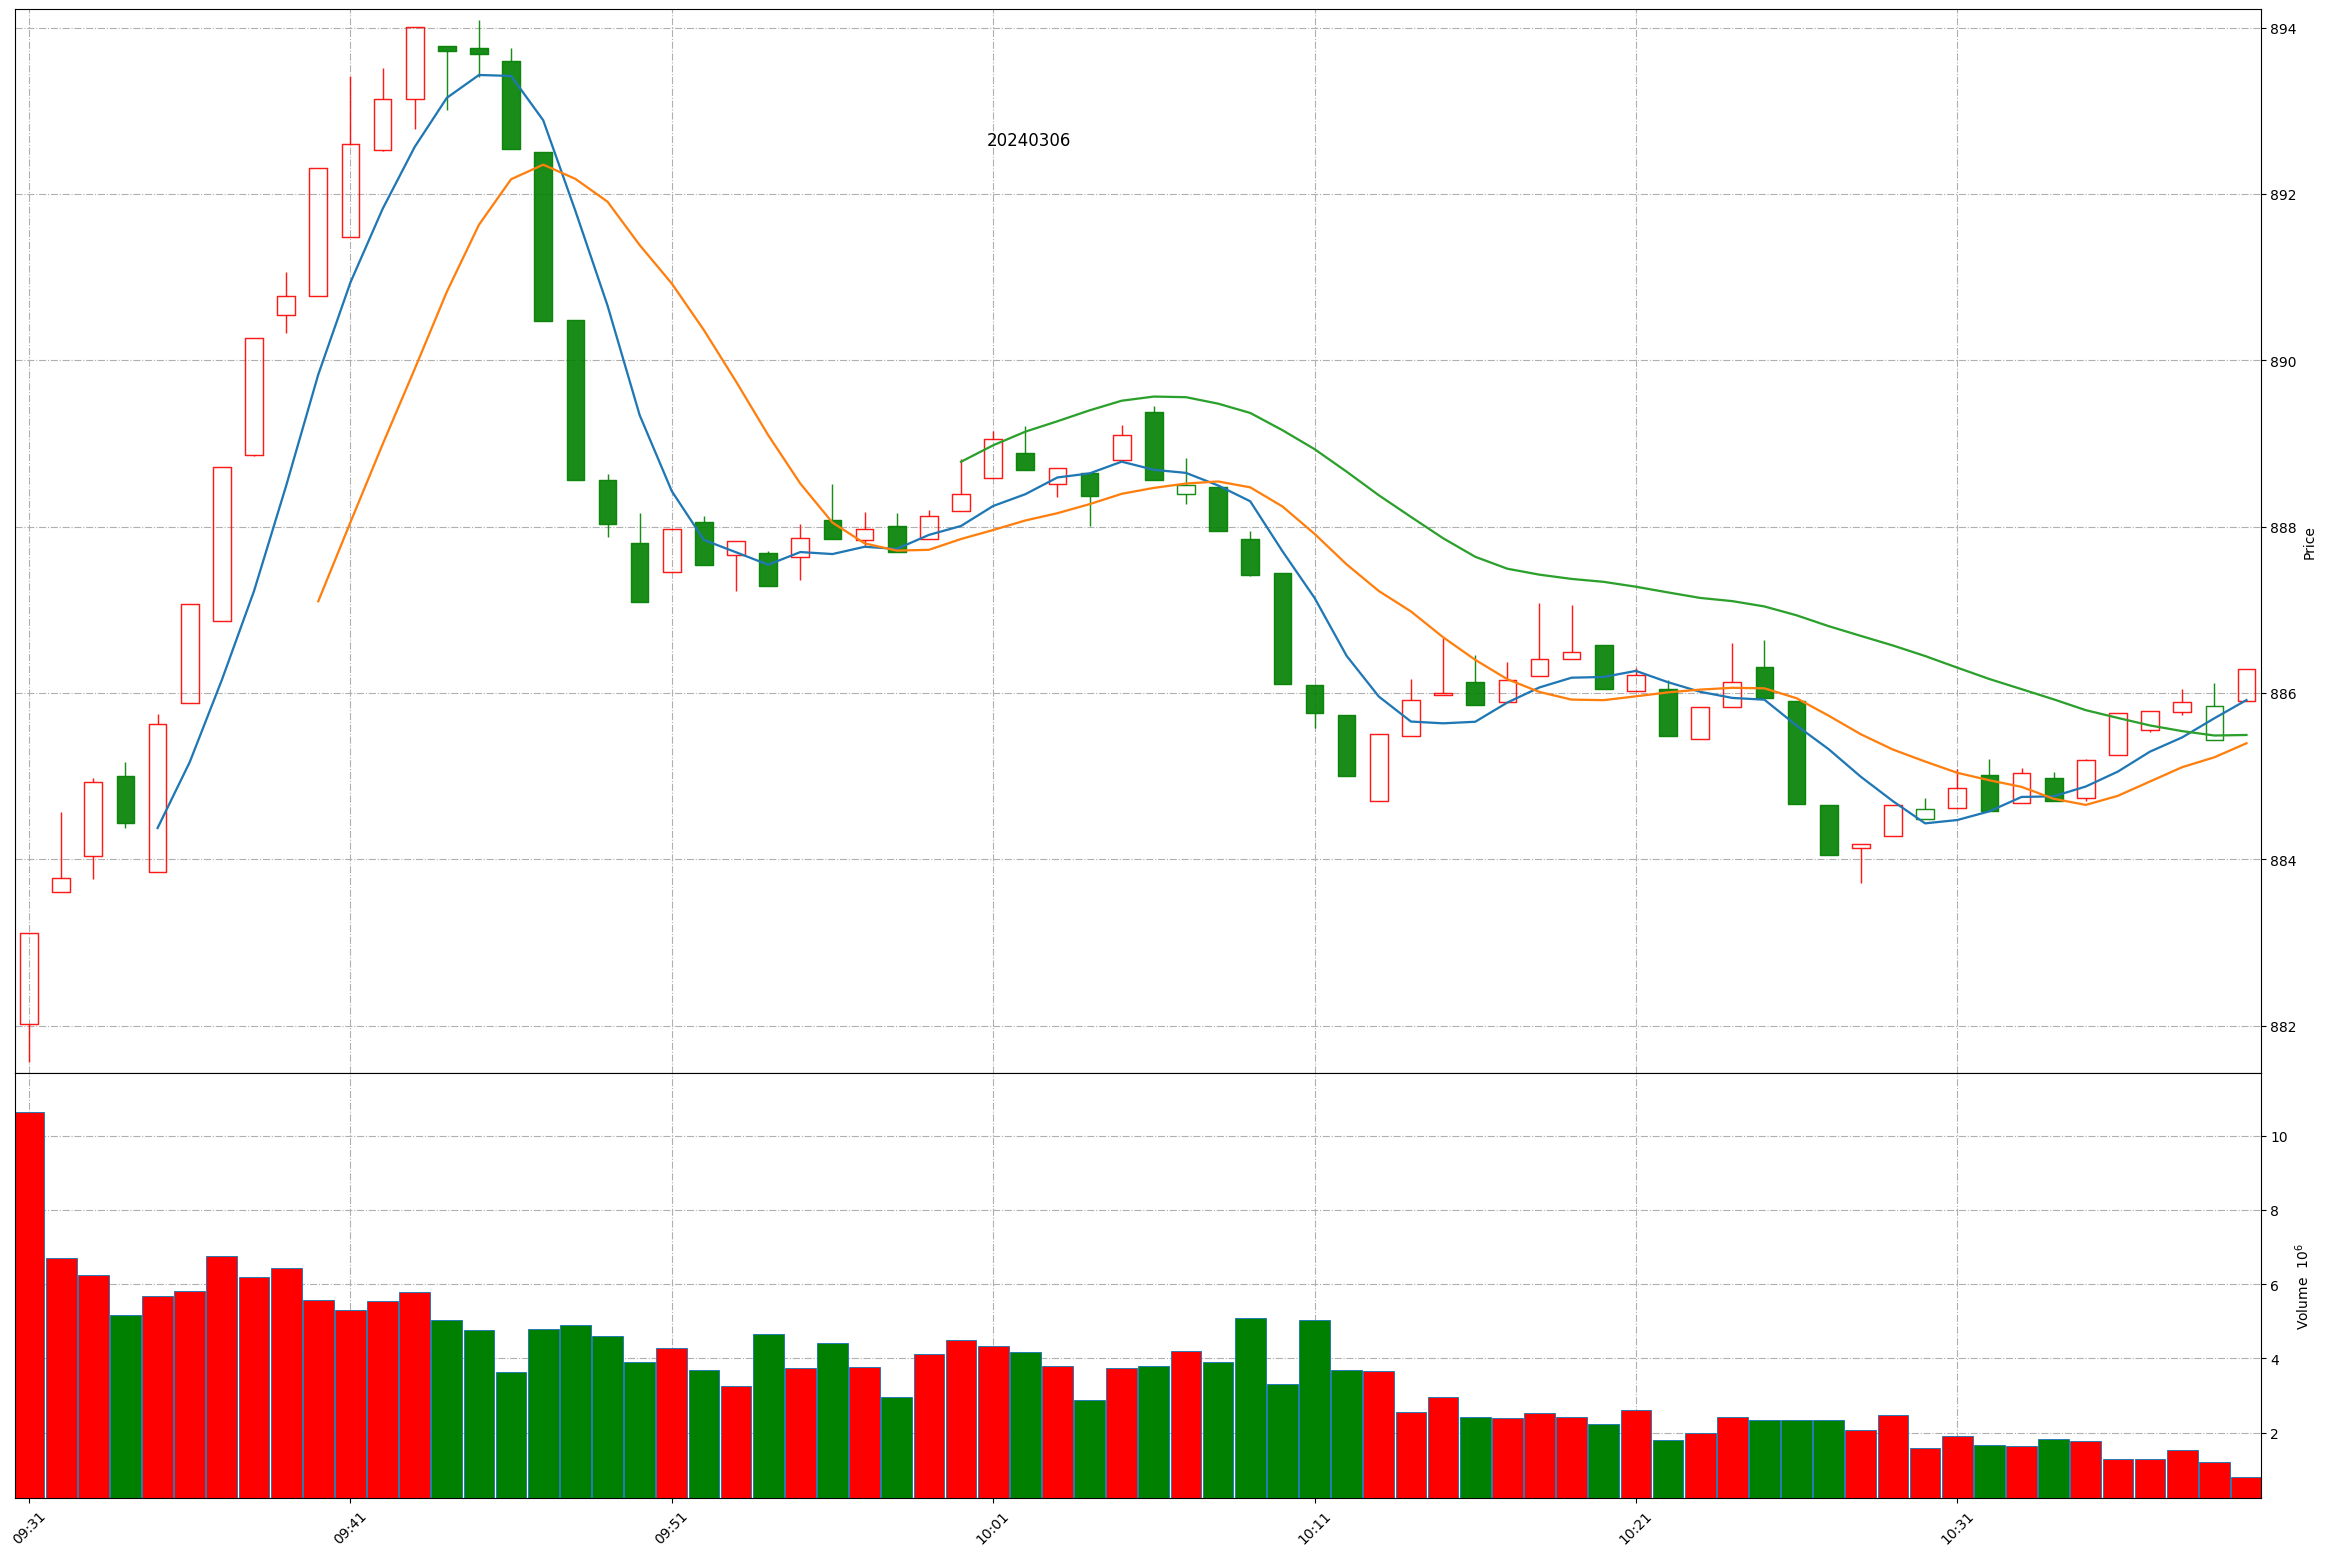
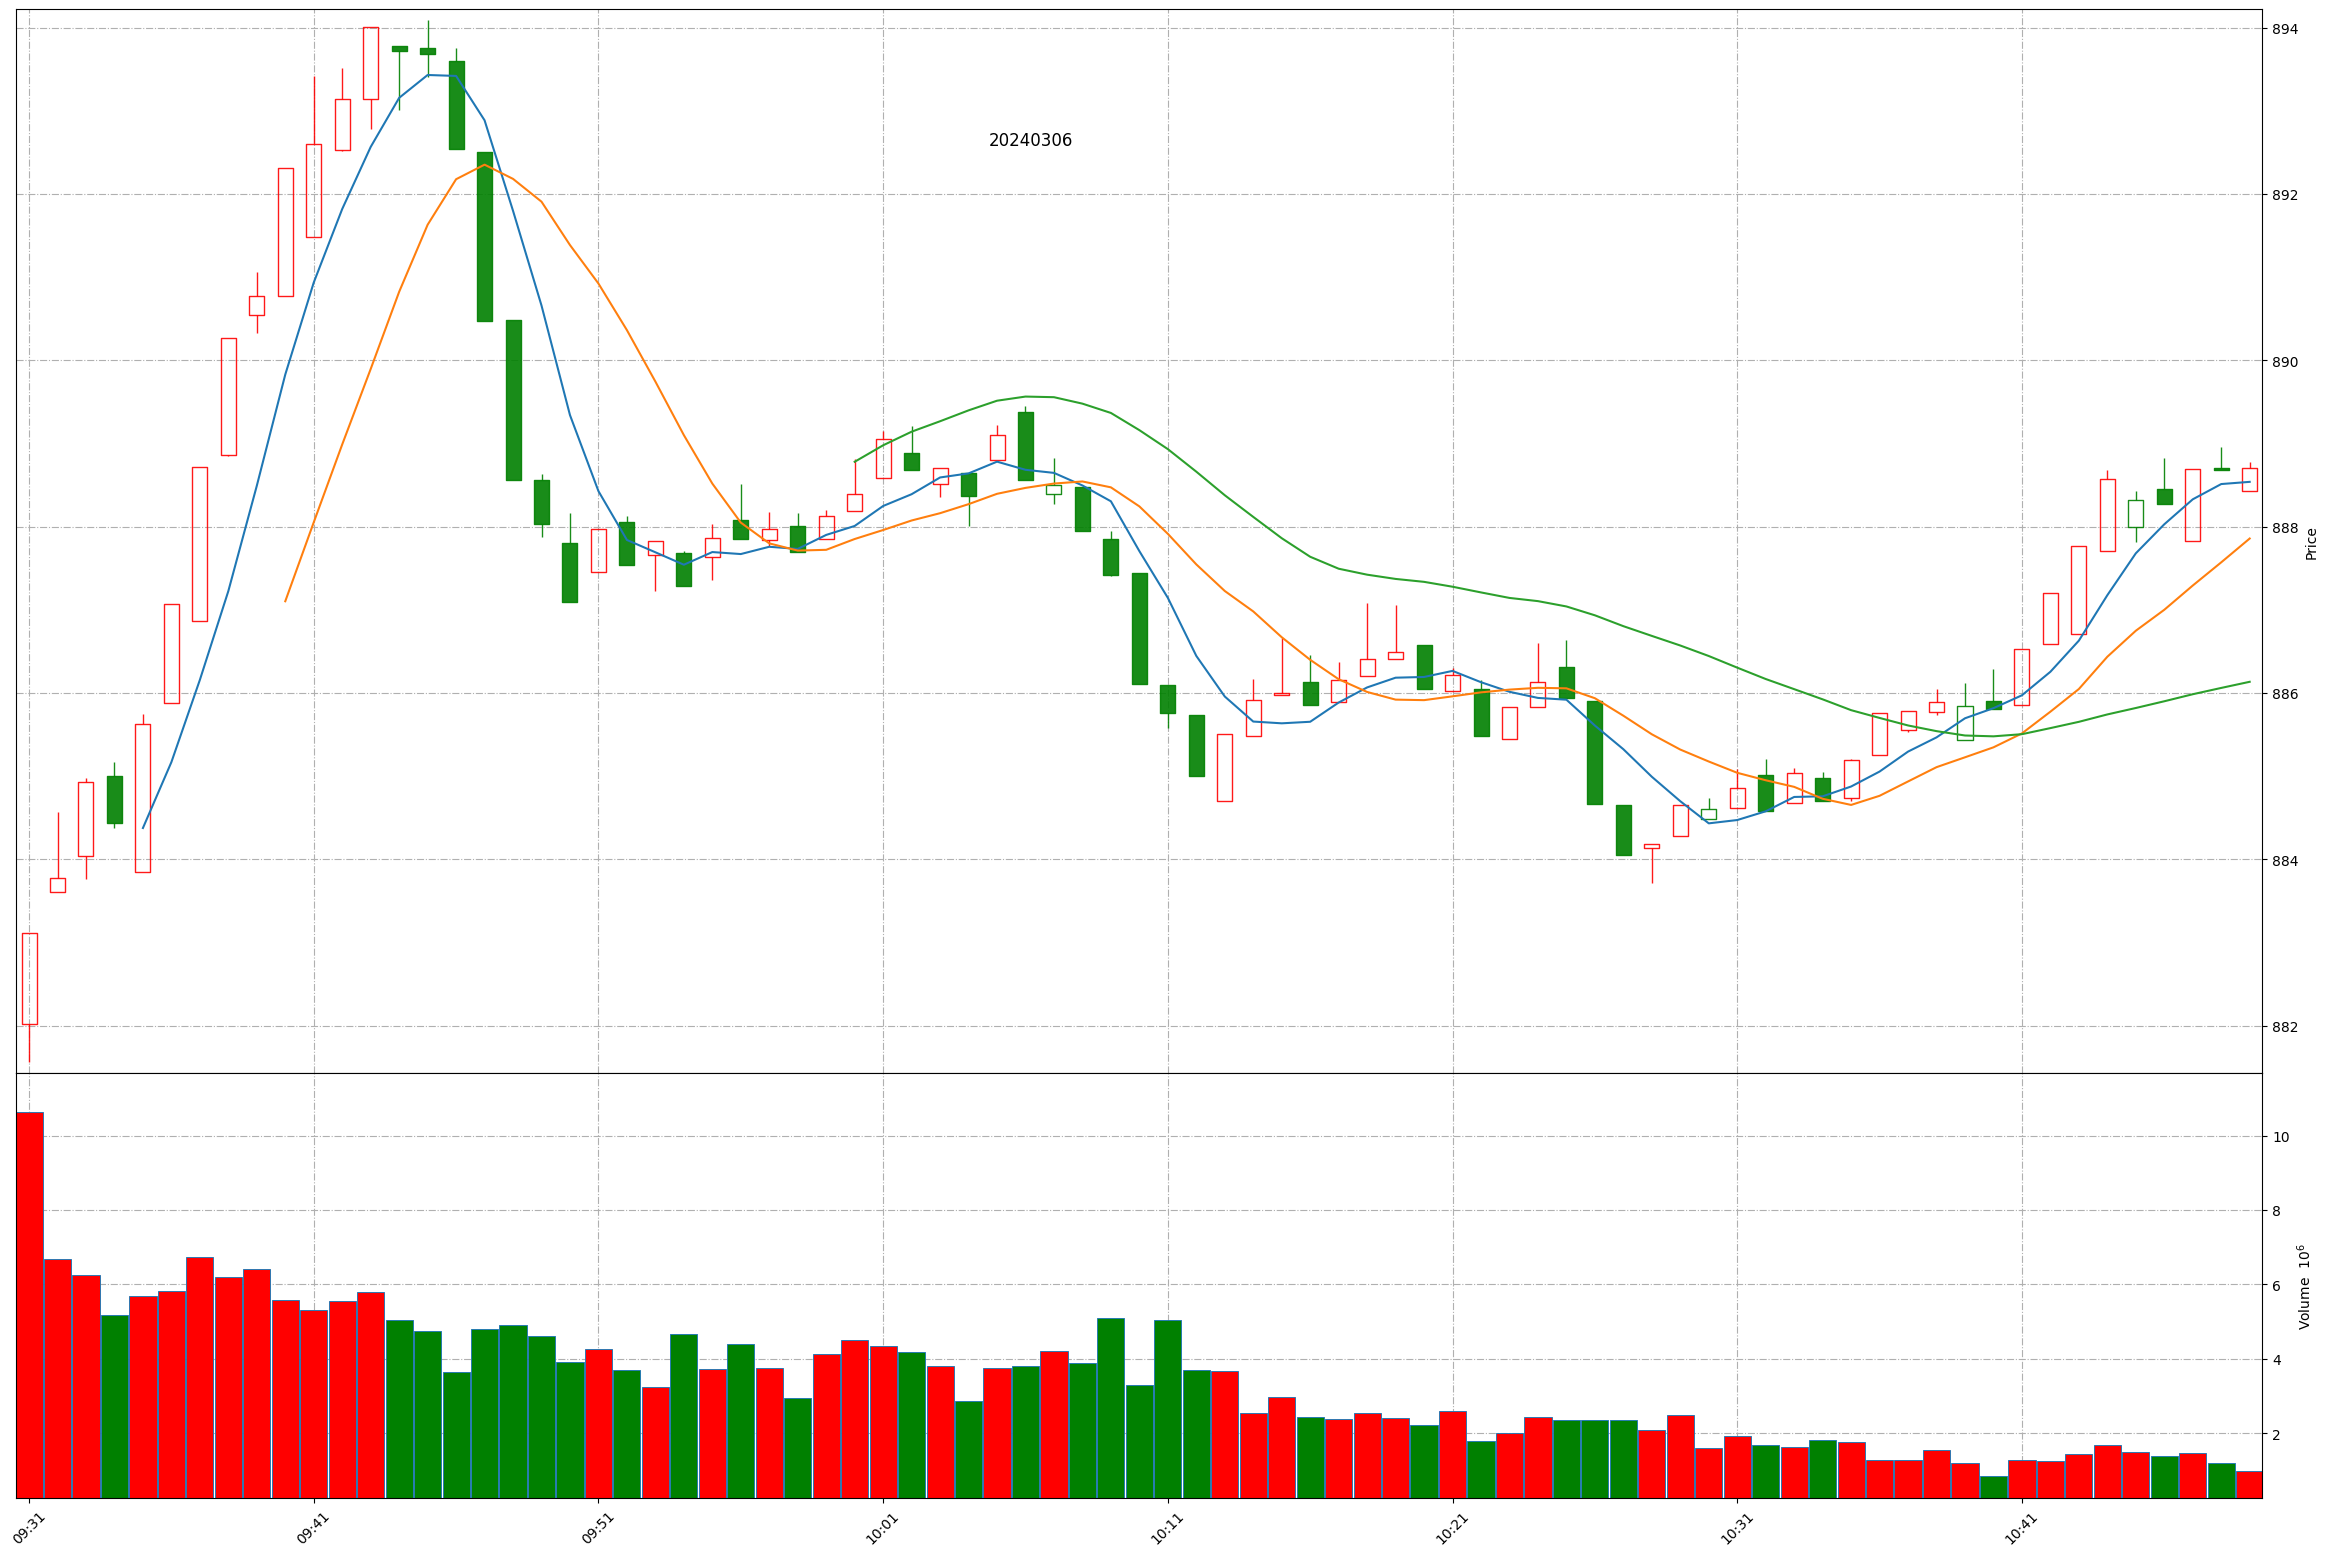
Github action update at 2024-03-06 10:48:53.

diff --git a/README.md b/README.md
@@ -1,11 +1,11 @@
 
 # Daily-A-share-market-quotes 每日 A 股指数（5min 更新）- 20240306
 
-### 上证指数 20240306 10:40
+### 上证指数 20240306 10:48
 ![](./fig/2024/3/20240306-sh000001.png)
 
-### 深证成指 20240306 10:40
+### 深证成指 20240306 10:48
 ![](./fig/2024/3/20240306-sz399001.png)
 
-### 北证50 20240306 10:40
+### 北证50 20240306 10:48
 ![](./fig/2024/3/20240306-bj899050.png)
